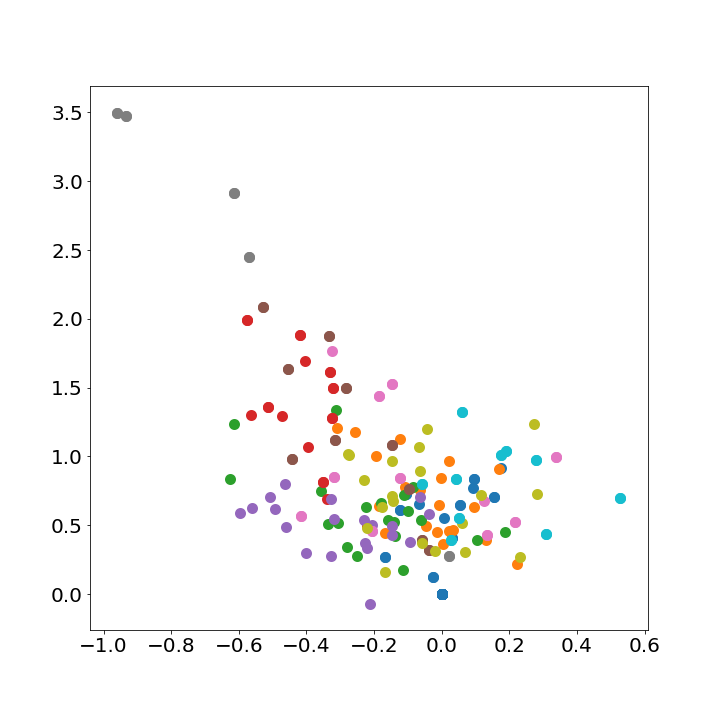
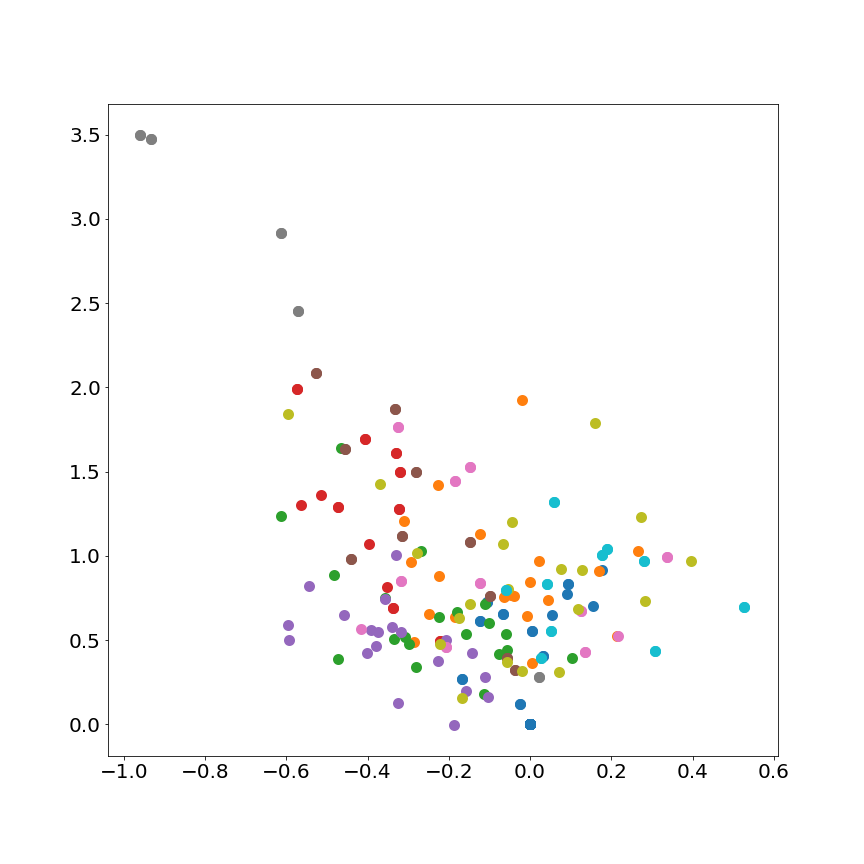
Commited changes to readme

diff --git a/README.md b/README.md
@@ -4,7 +4,7 @@
 
 Find poetry authors who writes similar to your dearest poems.
 
-Would it be great if,  after reading a touching poem, we could find authors who have similar ideas or style? To this end, I build a scalable recommendation system that takes  as input a poem and outputs authors that write similarly. Bookshops can scale this service to empower their customers, boosting sales and loyalty. The underlying AI results from applying computer vision techniques  to encode the legacy of a hundred of classic and modern poets. 
+Would it be great if,  after reading a touching poem, we could find authors who have similar ideas or style? To this end, I built a scalable recommendation system that takes  as input a poem and outputs authors that write similarly. Bookshops can scale this service to empower their customers, boosting sales and loyalty. The underlying AI results from applying computer vision techniques  to encode the legacy of a hundred of classic and modern poets. 
 
 ## How does it work?
 
@@ -26,8 +26,24 @@ Use the docker file in the build folder, execute run_pipeline and go to /src/res
 see results and work locally.
 
 ## Performance
+With this quick start, which trains on the 10 poets with largest corpuses on the data set, one 
+obtains the following embedding:
 
-The present encoder is build with the 10 authors which produces the larges corpus of poems. 
+![training](./media/training.png)
+
+Then, one can adjust a K nearest neighboors classification algorithm to check the accuracy 
+of the model. On a separate training set solely of poems never seem by the training and valid sets 
+one obtains the following results on these same authors
+
+![testestin](./media/testing.png)
+
+and the KNN algorithm obtains 51% accuracy. Furthermore, to test is this is really an encoder (embedding)
+for authors not used for training, we use the model to process the vector for another 10 authors
+
+![training_newauthors](./media/training_newauthors.png)
+
+Again, a KNN algorithm reaches 30 % accuracy. Future developments, will use largest corpuses and 
+try different word/sensentece embeddings.
 
 ---
 ## Parameters process poems
@@ -83,6 +99,7 @@ FaceNet: A Unified Embedding for Face Recognition and Clustering (https://arxiv.
 The triplet loss tools used are based on [Adam Bielski](https://github.com/adambielski/siamese-triplet) 
 pytorch implementation of triplet loss.
 The best performing model is an implementation of [CNN for sentence classification](https://arxiv.org/abs/1408.5882)
+
 
 
 
